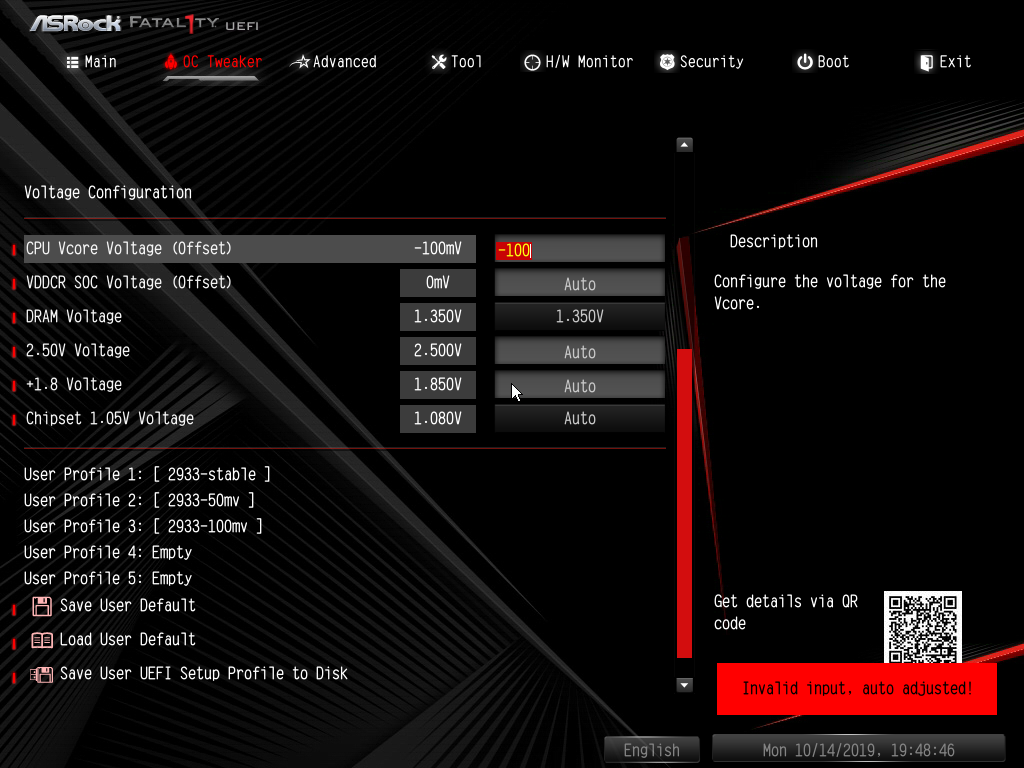
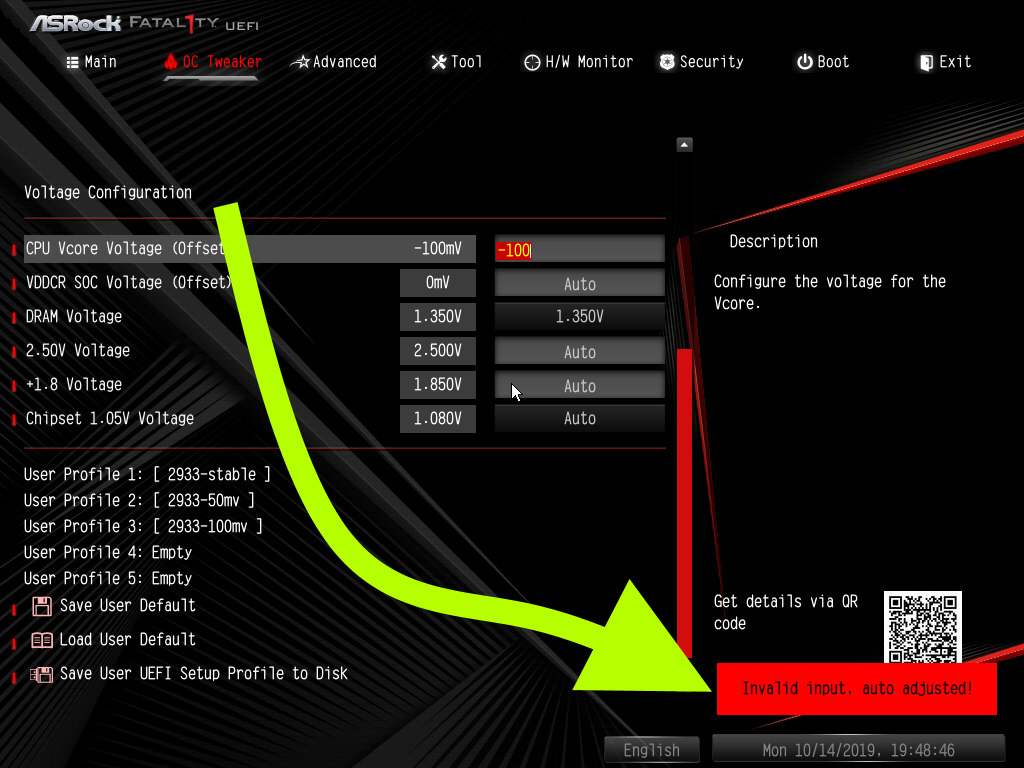
Polish up the cpu undervolting guide

Changed region(s): [[0.1875, 0.25, 0.6875, 0.9062]]

diff --git a/content/blog/how-to-undervolt-ryzen-cpu/index.md b/content/blog/how-to-undervolt-ryzen-cpu/index.md
@@ -1,17 +1,19 @@
 ---
 title: How to undervolt your ryzen cpu
 date: "2019-10-10"
-thumbnail: ./bios-vcore-offset.png
+thumbnail: ./ryzen-master.png
 description: "Undervolting your CPU can make your system run cooler, quieter, and more efficiently. Unfortunately, there are a myriad of different ways to undervolt. This guide will help make the best decision depending on what's available for each system. Along the way we'll record monitoring data and benchmark scores to quantity the effect of undervolting."
 ---
 
-Undervolting your CPU can make your system run cooler, quieter, and more efficiently. Though compared to [how to undervolt your gpu](/how-to-undervolt-gpu/), undervolting your CPU can be daunting as the technique to achieve undervolting can change based on your CPU, motherboard vendor, motherboard model, and even motherboard BIOS version. This guide is sticking to undervolting AMD Ryzen chips to keep the scope somewhat in check. Even though there are lots of variables hopefully everyone can find a solution. 
+**Note: This is a living guide, corrections, suggestions and additional data points are welcomed**
 
-In this guide, we'll **undervolt a Ryzen 2700 to a 2700E's TDP**. But this can also be used to undervolt a 3900X to 65W, if one can't get their hand on the [OEM-only part](https://www.anandtech.com/show/14961/amd-brings-ryzen-9-3900-and-ryzen-5-3500x-to-life).
+Undervolting your CPU can make your system run cooler, quieter, and more efficiently. Compared to [how to undervolt your gpu](/how-to-undervolt-gpu/), undervolting your CPU can be daunting as the technique to achieve undervolting can change based on your CPU, motherboard vendor, motherboard model, and even motherboard BIOS version. This guide is focussing on undervolting desktop AMD Ryzen chips to keep the scope somewhat in check. Even though there are lots of variables hopefully everyone can find a solution. 
+
+In this guide, we'll **undervolt a Ryzen 2700 to a 2700E's TDP**. But this can also be used to undervolt a 3900X (a 105W TDP processor) to 65W if one can't get their hand on the [OEM-only 65W 3900](https://www.anandtech.com/show/14961/amd-brings-ryzen-9-3900-and-ryzen-5-3500x-to-life).
 
 Components we'll be using:
 
-- [Cinebench R20](https://www.maxon.net/en-us/products/cinebench-r20-overview/): Free CPU benchmark for single thread and multi-threaded workloads. It will let us quantify any performance loss due to undervolting. We're using R20 rather than R15, so that the Ryzen chips take longer to complete to help get consistent readings.
+- [Cinebench R20](https://www.maxon.net/en-us/products/cinebench-r20-overview/): Free CPU benchmark for single thread and multi-threaded workloads. It will let us quantify any performance loss due to undervolting. We're using R20 rather than R15, so that high core count CPUs take long enough to complete to help get consistent readings.
 - [HWiNFO64](https://www.hwinfo.com/): to measure our sensor readings (temperature, wattage, etc)
 - Google sheets: A spreadsheet for tracking power usage, benchmarks, any modifications, etc
 - (optional): [P4460 Kill a Watt](http://www.p3international.com/products/p4460.html) electricity usage monitor: to measure output from the wall. This is the only thing that costs money on the list -- you may be able to rent it from a local library or utility company. A wattmeter is not critical, but it'll give us a sense of total component draw that the PSU has to supply. I bought one from my local hardware store.
@@ -21,7 +23,7 @@ Components we'll be using:
 Feel free to swap components out for alternatives, but I'd like to stress two things:
 
 - A benchmark that provides a multi-threaded and single threaded score. Undervolting may effect one more than the other and we need to capture that.
-- The use of an external measurement tool (like the Kill a Watt). Undervolting can cause hardware sensor misreporting, which has tripped up even seasoned SFF enthusiast [Optimum Tech](https://www.youtube.com/watch?v=2wM3obN2pAE) ([Gamers Nexus's response](https://www.gamersnexus.net/guides/3494-amd-ryzen-3000-undervolting-offset-override)). So if we arm ourselves with multiple tools, we can do a sanity check to make sure everything lines up.
+- The use of an external measurement tool (like the Kill a Watt). Undervolting can cause hardware sensor misreporting, which has tripped up even seasoned SFF enthusiast [Optimum Tech](https://www.youtube.com/watch?v=2wM3obN2pAE) (see [Gamers Nexus's response](https://www.gamersnexus.net/guides/3494-amd-ryzen-3000-undervolting-offset-override)). So if we arm ourselves with multiple tools, we can do a sanity check to make sure everything lines up.
 
 ## Important HWiNFO sensors
 
@@ -52,20 +54,20 @@ First we'll measure idle for completeness:
 - Close all programs including those in the background using any cpu cycles
 - Open HWiNFO
 - Wait for the system to settle down (ie, the wattmeter converges to a reading)
-- Record what's being pulled from the wall, and max sensor info from HWiNFO.
+- Record what's being pulled from the wall, and max sensor readings from HWiNFO.
 
-Then benchmark the cpu with cinebench. We'll need to first configure Cinebench show the single core benchmark like so:
+Then benchmark the cpu with Cinebench. We'll need to first configure Cinebench to show the single core benchmark like so:
 
 ![cinebench-r20-single](./cinebench-r20-single.png "Show single core benchmark in Cinebench R20")
 
-The score you are interested in is both the CPU and CPU (single core). Use the process listed below
+After running, record both scores: the CPU and CPU (single core). Use the process listed below
 
 ![cinebench-scores](./cinebench-scores.png "Cinebench R20 scores for CPU / CPU (Single Core)")
 
 - Keep everything closed, except HWiNFO
 - Reset HWiNFO sensors
 - Run Cinebench R20 "CPU" benchmark (multi-threaded)
-- Record score, max wattmeter reading, max watts / temp from the gpu
+- Record score, max wattmeter reading, max watts / temp from the cpu
 - Run Cinebench R20 "CPU (Single Core)"
 - Record score (the single core benchmark shouldn't exceed the wattage or temperature recorded from the multi-threaded test, so we can omit those)
 - Repeat three times
@@ -74,16 +76,16 @@ Here's an example of what I recorded for my initial measurements:
 
 ![google-sheets](./google-sheets.png "How I set up my spreadsheet for recording data")
 
-- Average Timespy score: 3289
+- Average Cinebench score: multi-threaded: 3289, single-threaded: 398
 - Max wattmeter reading: 129W
-- Max CPU watts: 75W
+- Max CPU watts: 75W (note that the R2700 used in testing has an official TDP of 65W. ["It is a common mistake to conflate thermal watts (TDP) with electrical watts "power draw""](https://www.youtube.com/watch?v=tL1F-qliSUk&t=272s) - AMD. So it's more of a rule of thumb)
 - Max CPU temperature: 75c
 
 With our baseline set, it's time to start tweaking!
 
 ## CPU Undervolting
 
-There are several knobs one can dial for Ryzen undervolting. Unfortunately, not all are available depending on the system. And if multiple techniques are available for one to use, they are not all considered equal. Some will wreck single threaded performance, which is why we run those single threaded benchmarks!
+There are several knobs one can dial for Ryzen undervolting. Unfortunately, not all are available depending on the system. And if multiple techniques are available for one to use, they are not all considered equal. Some will wreck single threaded performance, so it is important to run single threaded benchmarks!
 
 Without further ado, this is the basic flow chart you should be checking: select only the first box that's available to your system (if it's unavailable, doesn't work, or doesn't give the results you desire, go to the next box).
 
@@ -93,7 +95,7 @@ If a setting doesn't work, ensure you reset it to its default value so that it d
 
 ### Power Package Tracking
 
-First thing to try altering the max amount of power delivered to the socket. [From Gamers Nexus](https://www.gamersnexus.net/guides/3491-explaining-precision-boost-overdrive-benchmarks-auto-oc)
+First try altering the max amount of power delivered to the socket. [From Gamers Nexus](https://www.gamersnexus.net/guides/3491-explaining-precision-boost-overdrive-benchmarks-auto-oc)
 
 > **Package Power Tracking ("PPT"):** The PPT threshold is the allowed socket
 > power consumption permitted across the voltage rails supplying the socket.
@@ -103,21 +105,23 @@ First thing to try altering the max amount of power delivered to the socket. [Fr
 > 1. Default for Socket AM4 is at least 142W on motherboards rated for 105W TDP processors.
 > 2. Default for Socket AM4 is at least 88W on motherboards rated for 65W TDP processors.
 
-Users have reported that adjusting PPT affords significant efficiency gains compared to other methods. A user compared PPT adjustments to vcore offsets (which we'll get to later), and found power savings of nearly 40W.
+[Users have reported](https://www.reddit.com/r/Amd/comments/ceakbs/if_you_want_to_save_powerreduce_thermals_reduce/) that adjusting PPT affords significant efficiency gains compared to other methods. A user compared PPT adjustments to vcore offsets (which we'll get to later), and found power savings of nearly 40W.
 
 ![ppt-limit](./ppt-limit.png "Benchmarking and graph done by @vpcf90")
 
-In the event this option is available to you:
+To edit this setting, you'll need to enter the BIOS when booting the computer, which involves mashing some key combination (F1, F2, F3, DEL are common). The boot screen should momentarily display the key combination, so you don't have to guess.
 
-- start at a slight offset (140W or 85W)
-- Run both our cinebench benchmarks. Record scores, temperature, and power usage. 
+For my bios, this option is not available (to give you an idea of its whereabouts, asrock states it'd be under "Advanced\AMD CBS\NBIO Common Options\XFR Enhancement\Accepted\Precision Boot Overdirve\Enable". If you have a screenshot with the PPT setting, I'd love to include it in this guide). In the event this option is available to you:
+
+- Set the PPT at a slight offset (140W for a 105W CPU or 85W for a 65W CPU)
+- Run both Cinebench benchmarks 3 times. Record scores, temperature, and power usage. 
 - Increase the offset until desired threshold.
 
-One can try PPT adjustment coupled with a negative vcore offset for further gains, but mileage may vary.
+One can try PPT adjustment coupled with a [negative vcore offset](#vcore-offset) for further gains, but mileage may vary.
 
 ### Configurable TDP
 
-The next knob to try is definitely hit or miss, even if a BIOS presents the option -- it's changing the TDP of your desired wattage. Have a 95W CPU but want a 65W one? Set the cTDP to 65 (or 65000 depending on the BIOS).
+The next knob to try is definitely hit or miss, even if a BIOS presents the option -- it's changing the TDP to the desired wattage. Have a 95W CPU but want a 65W one? Set the cTDP to 65 (or 65000 depending on the BIOS).
 
 ![bios-tweak-ctdp](./bios-tweak-ctdp.png "Updating the cTDP value to a lower wattage")
 
@@ -125,13 +129,13 @@ But make sure you have your sensors and benchmarks readied. A single run of Cine
 
 One user had fantastic success [setting the cTDP on their 2700X](https://www.reddit.com/r/Amd/comments/9mxs88/ryzen_7_2700x_ctdp_test_15w_vs_35w_vs_65w_vs_auto/), but others weren't so lucky (may have been different motherboards or BIOS versions).
 
-While my 2700 ignored cTDP, I'm assuming that if a chip listed on WikiChip [like the 2400G](https://en.wikichip.org/wiki/amd/ryzen_5/2400g) contained a "cTDP down" section, I'm assuming cTDP will work.
+While my 2700 ignored cTDP (even with turbo boost disabled), I'm assuming if a chip is listed on AMD's site or WikiChip containg a "cTDP down", [like the 2400G](https://en.wikichip.org/wiki/amd/ryzen_5/2400g), then cTDP will work.
 
 ### Vcore offset
 
-Don't get discouraged if nothing has worked thus far, through setting a vcore offset one may be able to achieve the truest form of undervolting: lower powered consumption without a loss in performance. The best thing is that most motherboards should support this: asrock, [MSI](https://www.overclock.net/forum/13-amd-general/1718046-msi-finally-added-offset-mode.html), asus, biostar, and potentially some gigabytes.
+Don't get discouraged if nothing has worked thus far, through setting a vcore offset one may be able to achieve the truest form of undervolting: lower power consumption without a loss in performance. The best thing is that most motherboards should support this: asrock, [MSI](https://www.overclock.net/forum/13-amd-general/1718046-msi-finally-added-offset-mode.html), asus, biostar, and potentially some gigabytes.
 
-Below is a screenshot of adjusting the value in millivolts.
+Below is a screenshot of adjusting the offset value in millivolts.
 
 ![bios-vcore-offset](./bios-vcore-offset.png "Seting the CPU Vcore Voltage offset")
 
@@ -139,13 +143,21 @@ While I normally recommend setting the value in increments of 10mv, the BIOS can
 
 ![bios-invalid-offset](./bios-invalid-offset.png "A BIOS error message when going sub -100mv offset")
 
-We'll need to be vigilant here to ensure sensible benchmark scores and sensor readings.
+Thus I ran the -50mv offset three times in cinebench, and then moved onto a -100mv offset, which proved stable as well.
 
 #### Results
 
+![google-sheets-voltage-offset](./google-sheets-voltage-offset.png "Results from applying a vcore offset")
+
+- No difference in either Cinbench score
+- ~10W decrease in CPU power usage
+- ~5 degree drop in CPU temperature
+
+This may seem a little underwhelming, but I'm happy to accept this. Our CPU is more efficient and cooler than before and there isn't a performance penalty.
+
 ### Set frequency and voltage
 
-Have you exhausted the other options? If so, time to get discouraged. There will be a sacrifice -- potentially a heavy sacrifice in single threaded performance.
+Have you exhausted the other options? If so, time to get discouraged. There will be a sacrifice -- potentially a heavy sacrifice in single threaded performance. I promised we'd achieve a more dramatic drop in power usage when I mentioned we'd take a 2700 and turn it into a 2700E (vcore offset only netted a 10W efficiency gain), so we'll be entering in set frequency and voltages for the greatest control.
 
 Most if not all motherboards should be capable of accepting an arbitrary frequency and voltage.
 
@@ -157,11 +169,13 @@ Your starting frequency and voltage will depend on your setup:
 - Start the voltage at the default value as well (1V)
 - Decrease voltage by 0.025 until unstable in Cinebench (Cinbench reports an error, crashes, or blue screen) and then decrease frequency by 100MHz
 
-Due note that just changing these two settings may not be enough. Your system may detect the voltage / frequency set, but see that it has plenty of power left in it's budget and turbo beyond that disregarding your intentions. The solution is to disable precision boost. For asrock motherboards this is called Core Performance Boost (CPB)
+Due note that just changing these two settings may not be enough. Your system may detect the new voltage / frequency, but see that it has plenty of power left in it's budget and turbo beyond that disregarding your intentions. The solution is to disable precision boost. For asrock motherboards this is called Core Performance Boost (CPB)
 
 ![bios-core-performance-boost](./bios-core-performance-boost.png "Disabling Core Performance Boost")
 
-Disabling CPB means that cores can't exceed 3.0GHz. Considering the [turbo frequency of a R2700 is is 4.1GHz](https://en.wikichip.org/wiki/amd/ryzen_7/2700) that's a 1.1GHz decrease! 
+Disabling CPB means that cores can't exceed our set frequency (in the screenshots, it's 3.0GHz). Considering the [turbo frequency of a 2700 is 4.1GHz](https://en.wikichip.org/wiki/amd/ryzen_7/2700) that's a 1.1GHz decrease! And since the [2700E has a turbo frequency of 4.0GHz](https://en.wikichip.org/wiki/amd/ryzen_7/2700e), we'll be even slower than 2700E in single thread performance. The only redeeming quality is that our base clocks are 200MHz higher.
+
+Let's benchmark the 0.875mv @ 3.0GHz setup and see where it lands.
 
 #### Results
 
@@ -170,38 +184,57 @@ Disabling CPB means that cores can't exceed 3.0GHz. Considering the [turbo frequ
 - Multi-threaded score dropped ~250 points (8%)
 - Single threaded score dropped ~100 points (25%)
 - CPU power draw dropped ~30W (so we've achieved 2700E levels of power usage)
-- CPU temps dropped 15 degrees
+- CPU temps dropped ~15 degrees
 
-Overall, I'd say this type of undervolting / underclocking isn't worth it. A 25% decrease in single threaded performance is tough to swallow. Unless you built a computer for purely multi-threaded workloads, 
+Overall, I'd say this type of undervolting / underclocking isn't normally worth it. A 25% decrease in single threaded performance is tough to swallow unless you built a computer for purely multi-threaded workloads. Don't get me wrong, even at a 25% decrease, the computer operates normally. And a [youtuber did demonstrate](https://www.youtube.com/watch?v=dU0--0gyxks) that games ran surprisingly well even at an absurd underclock of 800MHz. Just know that there is a tangible cost with this method. 
 
-While running the underclock, I noticed something bizarre when running HWiNFO. Even at idle, it was reporting core clocks to be at their max of 3GHz. Initially I thought that this meant the system wasn't idling, but looking at the power reported in HWiNFO told a different story -- that it was able to idle.
+An interesting note, while running the underclock, HWiNFO seemed to be in a bizarre state. Even at idle, it was reporting core clocks to be at their max of 3GHz. Initially, I thought that this meant the system wasn't idling, but HWiNFO power usage reported values that contradicted this thought. Power usage was at idle, but clocks were at 3GHz.
 
 ![hwinfo-clocks-misreporting](./hwinfo-clocks-misreporting.png "Inconsistency in hwinfo sensor reporting")
 
-This is where our wattmeter comes into play. I saw that it was reporting idle power usage, so I determined that HWiNFO may have been misreporting detected clock speeds. This is why one must stay 
+This is where our wattmeter comes into play. I saw that wattmeter was also reporting idle power usage (this is why we measure at idle!), so I could rest easy knowing that system could idle. This is why one must stay vigilant to ensure our sensors, wattmeter, and spreadsheet align. 
 
-## Ryzen Master
+## Conclusion
+
+All this info can be overwhelming, but to distill this down with the example used throughout this guide (ryzen 2700 and asrock B450 itx motherboard):
+
+- PPT option was not available in BIOS
+- cTDP had no effect
+- A max vcore offset of -100mv saw a 10W drop in CPU power draw and a modest 5 degrees temperature reduction without performance regressions
+- Undervolting to 0.875mv and underclocking to 3Ghz saw a more dramatic decrease in power usage (down to 48W) but came with a 25% performance drop in single threaded workloads, which is hard to tolerate.
+
+I decided on vcore offset being the most appropriate undervolt for me.
+
+Your conclusion **will** differ. Happy undervolting.
+
+## FAQ
+
+### What about Ryzen Master?
 
 Any guide on Ryzen undervolting would be remiss if it didn't at least mention AMD's [Ryzen Master](https://www.amd.com/en/technologies/ryzen-master). It's a useful tool for a couple of reasons:
 
-- Tweak values at runtime without a restart (some values may require a restart)
+- Tweak values at runtime without a restart (though some may still require a restart)
 - Create multiple profiles: one for gaming, one for rendering footage
 - A second data point for determining what one can edit in the BIOS. For instance, if you are unable to edit PPT in the BIOS and unable to edit it in Ryzen Master (shown below) -- you'll have to skip PPT undervolting.
 
-But I'm unable to fully utilize Ryzen Master, as I'm a developer that works on virtual machines, and Ryzen master doesn't can't work alongside CPU virtualization (enabled in the BIOS), and it'll throw some error about Ryzen Master only able to run with Virtualization Based Security disabled.
+![ryzen-master](./ryzen-master.png "Ryzen Master with PPT adjustments disabled")
+
+But there are some caveats with Ryzen Master: Windows only and CPU virtualization must be disabled in the BIOS. I'm a developer that works on virtual machines, so it'll throw some error about Ryzen Master only able to run with Virtualization Based Security disabled.
 
 ![ryzen-master-vm](./ryzen-master-vm.png "Error when trying to use Ryzen Master with Virtualization")
 
 So for those on Windows who don't have virtual machines and don't mind installing Ryzen Master, it can be a helpful tool.
 
-## Stress Tests
+### What about stress tests?
 
-Potentially the most controversial aspect of this guide is the nonchalant nod I'll be giving stress tests. I can't omit them, as else this guide may feel inadequate, but I won't emphasize their necessity. People will disagree about which stress tests should be ran, how they should be ran, the durations of the tests, and anyone not following their formula is sacrificing stability. Instead, I believe one should craft their own stress scenario filled with realistic workloads. For me, that's compiling, video encoding, and gaming.
+Potentially the most controversial aspect of this guide is the nonchalant nod I'll be giving stress tests. I can't omit them, as else this guide may feel inadequate, but I won't emphasize their necessity. People will disagree about which stress tests should be ran, how they should be ran, the durations of the tests, and anyone not following their formula is sacrificing stability. Instead, I believe one should craft their own stress scenario filled with realistic workloads they perform on a day to day basis. For me, that's compiling, video encoding, and gaming.
 
-So after you've settled on your undervolt you can tease out instability issues by running your stress test, and you should already feel pretty confident about stability as Cinebench R20 should have completed multiple times at a given undervolt. If stability is desired even during unrealistic workloads, then stress test program like [Prime95](https://www.mersenne.org/download/#stresstest) can be used.
+So after you've settled on your undervolt you can tease out instability issues by running your stress test, and you should already feel pretty confident about stability as Cinebench R20 should have completed multiple times at a given undervolt. If stability is desired even during unrealistic workloads, then stress test programs like [Prime95](https://www.mersenne.org/download/#stresstest) can be used.
 
 ![prime-95](./prime-95.png "Running Prime95 tortue test")
 
 The number of torture test threads to run will auto-detect the right number.
 
 Run Prime95's torture test for the desired length of time (some people will measure in minutes while others measure in days).
+
+To please the torture stress test disciples in preparation of this article, I ran my -100mv vcore offset in prime95 for several hours, even though I had already been running the undervolt for several months without stability issues. No issues arose. If they had, and it's bothersome (it isn't to me), the undervolt can be adjusted. The main takeaway here is that you want to be comfortable with your computer -- however you define that.
